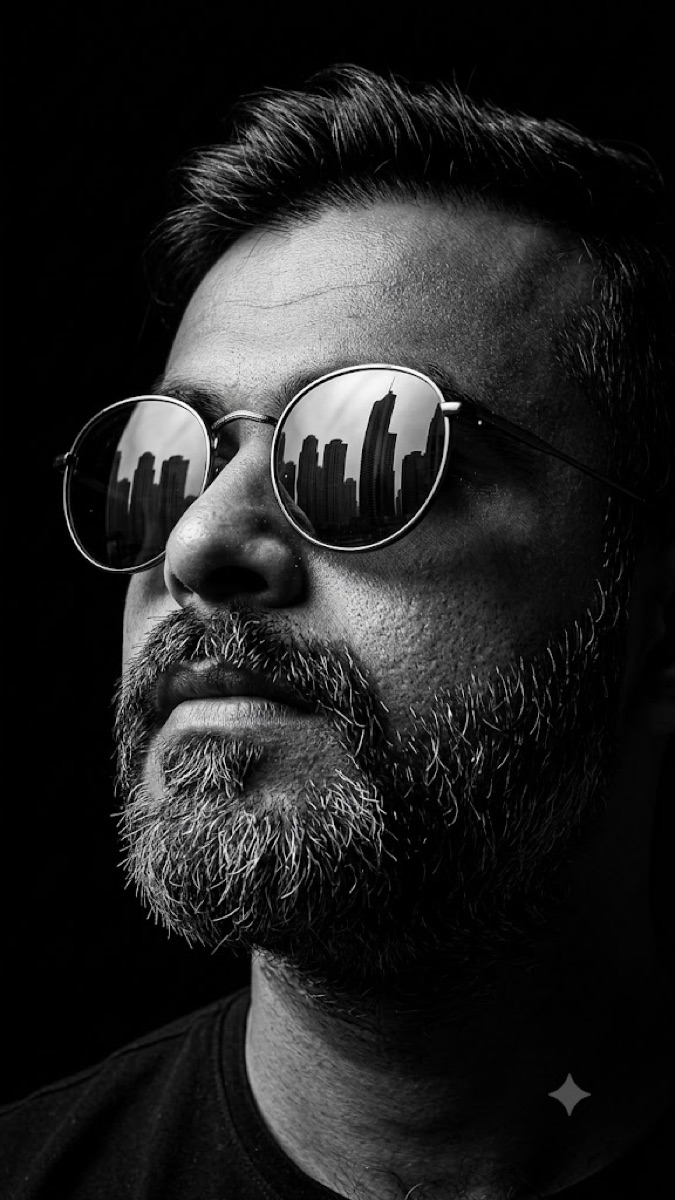
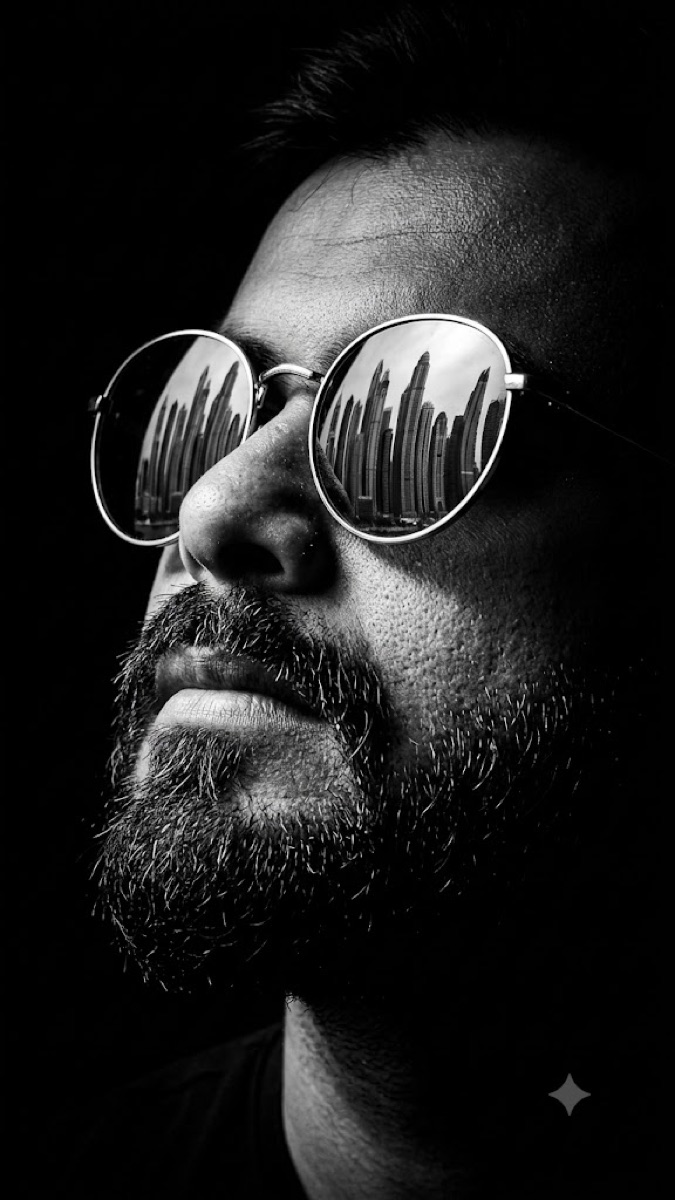
feat: slow the heading color reveal + add scroll-entrance animations; swap portrait
- WordReveal: slower, held accent flash (color 1.4s, times hold accent) + larger per-word stagger so the sweep is clearly visible
- New Reveal component: fade-and-rise scroll entrance (useInView, reduced-motion aware, no-JS safe via [data-reveal] noscript rule)
- Applied Reveal to hero subtext/CTAs and featured-work + services card grids (staggered)
- Replaced public/portrait.jpg with the newer tighter-crop headshot
- 25/25 tests pass, static build clean

diff --git a/components/reveal.tsx b/components/reveal.tsx
@@ -1,0 +1,36 @@
+"use client";
+import { useRef } from "react";
+import { motion, useInView } from "framer-motion";
+import { usePrefersReducedMotion } from "@/lib/use-prefers-reduced-motion";
+
+type Props = {
+  children: React.ReactNode;
+  className?: string;
+  delay?: number;
+};
+
+// Fade-and-rise entrance when scrolled into view. Uses useInView (fires reliably
+// even above the fold), degrades to static for reduced motion, and carries a
+// data-reveal hook so the <noscript> fallback keeps content visible without JS.
+export function Reveal({ children, className, delay = 0 }: Props) {
+  const reduced = usePrefersReducedMotion();
+  const ref = useRef<HTMLDivElement>(null);
+  const inView = useInView(ref, { once: true, margin: "0px 0px -10% 0px" });
+
+  if (reduced) {
+    return <div className={className}>{children}</div>;
+  }
+
+  return (
+    <motion.div
+      ref={ref}
+      data-reveal
+      className={className}
+      initial={{ opacity: 0, y: 20 }}
+      animate={inView ? { opacity: 1, y: 0 } : {}}
+      transition={{ duration: 0.6, delay, ease: [0.22, 1, 0.36, 1] }}
+    >
+      {children}
+    </motion.div>
+  );
+}

diff --git a/components/hero.tsx b/components/hero.tsx
@@ -1,6 +1,7 @@
 import { hero } from "@/lib/content";
 import { WordReveal } from "@/components/word-reveal";
 import { PillButton } from "@/components/pill-button";
+import { Reveal } from "@/components/reveal";
 
 export function Hero() {
   return (
@@ -21,16 +22,20 @@ export function Hero() {
         <WordReveal text={hero.line2} tone="bright" className="block text-text" />
       </h1>
 
-      <p className="mx-auto mt-9 max-w-2xl text-lg leading-relaxed text-muted">{hero.subtext}</p>
+      <Reveal delay={0.15}>
+        <p className="mx-auto mt-9 max-w-2xl text-lg leading-relaxed text-muted">{hero.subtext}</p>
+      </Reveal>
 
-      <div className="mt-11 flex flex-wrap items-center justify-center gap-3">
-        <PillButton href={hero.ctaPrimary.href} variant="accent">
-          {hero.ctaPrimary.label}
-        </PillButton>
-        <PillButton href={hero.ctaSecondary.href} variant="dark">
-          {hero.ctaSecondary.label}
-        </PillButton>
-      </div>
+      <Reveal delay={0.3}>
+        <div className="mt-11 flex flex-wrap items-center justify-center gap-3">
+          <PillButton href={hero.ctaPrimary.href} variant="accent">
+            {hero.ctaPrimary.label}
+          </PillButton>
+          <PillButton href={hero.ctaSecondary.href} variant="dark">
+            {hero.ctaSecondary.label}
+          </PillButton>
+        </div>
+      </Reveal>
 
       <a
         href="#work"

diff --git a/components/word-reveal.tsx b/components/word-reveal.tsx
@@ -38,17 +38,22 @@ export function WordReveal({ text, className, tone = "bright" }: Props) {
         <motion.span
           data-word
           key={i}
-          initial={{ opacity: 0.12, y: "0.12em", color: settle }}
+          initial={{ opacity: 0.1, y: "0.16em", color: settle }}
           animate={
             inView
-              ? { opacity: 1, y: "0em", color: [settle, "var(--accent)", settle] }
+              ? {
+                  opacity: 1,
+                  y: "0em",
+                  // Hold on the accent so the color flash is clearly visible.
+                  color: [settle, "var(--accent)", "var(--accent)", settle],
+                }
               : {}
           }
           transition={{
-            duration: 0.5,
-            delay: i * 0.045,
+            duration: 0.7,
+            delay: i * 0.09,
             ease: [0.22, 1, 0.36, 1],
-            color: { duration: 0.6, delay: i * 0.045, times: [0, 0.5, 1] },
+            color: { duration: 1.4, delay: i * 0.09, times: [0, 0.28, 0.5, 1] },
           }}
           style={{ display: "inline-block", marginRight: "0.26em", color: settle }}
         >

diff --git a/components/featured-work.tsx b/components/featured-work.tsx
@@ -1,6 +1,7 @@
 import { caseStudies } from "@/lib/content";
 import { SectionHeading } from "@/components/section-heading";
 import { CaseVisual } from "@/components/case-visual";
+import { Reveal } from "@/components/reveal";
 
 export function FeaturedWork() {
   return (
@@ -16,9 +17,9 @@ export function FeaturedWork() {
 
       <div className="mt-14 grid gap-5 md:grid-cols-2">
         {caseStudies.map((c, i) => (
+          <Reveal key={c.title} delay={(i % 2) * 0.1}>
           <article
-            key={c.title}
-            className="group relative overflow-hidden rounded-2xl border border-hair bg-surface/40 p-6 transition-all duration-300 hover:border-white/20 hover:bg-surface/70 md:p-8"
+            className="group relative h-full overflow-hidden rounded-2xl border border-hair bg-surface/40 p-6 transition-all duration-300 hover:border-white/20 hover:bg-surface/70 md:p-8"
           >
             {/* Concept visual for the project */}
             <div className="relative mb-7">
@@ -41,6 +42,7 @@ export function FeaturedWork() {
               ))}
             </div>
           </article>
+          </Reveal>
         ))}
       </div>
     </section>

diff --git a/components/services.tsx b/components/services.tsx
@@ -1,5 +1,6 @@
 import { services } from "@/lib/content";
 import { SectionHeading } from "@/components/section-heading";
+import { Reveal } from "@/components/reveal";
 
 export function Services() {
   return (
@@ -10,9 +11,9 @@ export function Services() {
 
       <div className="mt-14 grid gap-5 md:grid-cols-2">
         {services.map((s, i) => (
+          <Reveal key={s.title} delay={(i % 2) * 0.1} className="h-full">
           <div
-            key={s.title}
-            className="group relative flex min-h-[240px] flex-col justify-between overflow-hidden rounded-2xl border border-hair bg-surface/40 p-7 transition-all duration-300 hover:border-white/20 hover:bg-surface/70 md:p-9"
+            className="group relative flex h-full min-h-[240px] flex-col justify-between overflow-hidden rounded-2xl border border-hair bg-surface/40 p-7 transition-all duration-300 hover:border-white/20 hover:bg-surface/70 md:p-9"
           >
             <div className="absolute inset-0 opacity-0 transition-opacity duration-300 group-hover:opacity-100 bg-[radial-gradient(90%_90%_at_0%_0%,rgba(251,65,30,0.08),transparent_60%)]" />
             <div className="relative flex items-start justify-between">
@@ -29,6 +30,7 @@ export function Services() {
               <p className="mt-3 max-w-md text-muted">{s.description}</p>
             </div>
           </div>
+          </Reveal>
         ))}
       </div>
     </section>

diff --git a/app/layout.tsx b/app/layout.tsx
@@ -66,7 +66,7 @@ export default function RootLayout({ children }: { children: React.ReactNode }) 
     <html lang="en-AU" className={interFont.variable}>
       <body>
         <noscript>
-          <style>{`[data-word]{opacity:1 !important;transform:none !important}`}</style>
+          <style>{`[data-word],[data-reveal]{opacity:1 !important;transform:none !important}`}</style>
         </noscript>
         {children}
       </body>